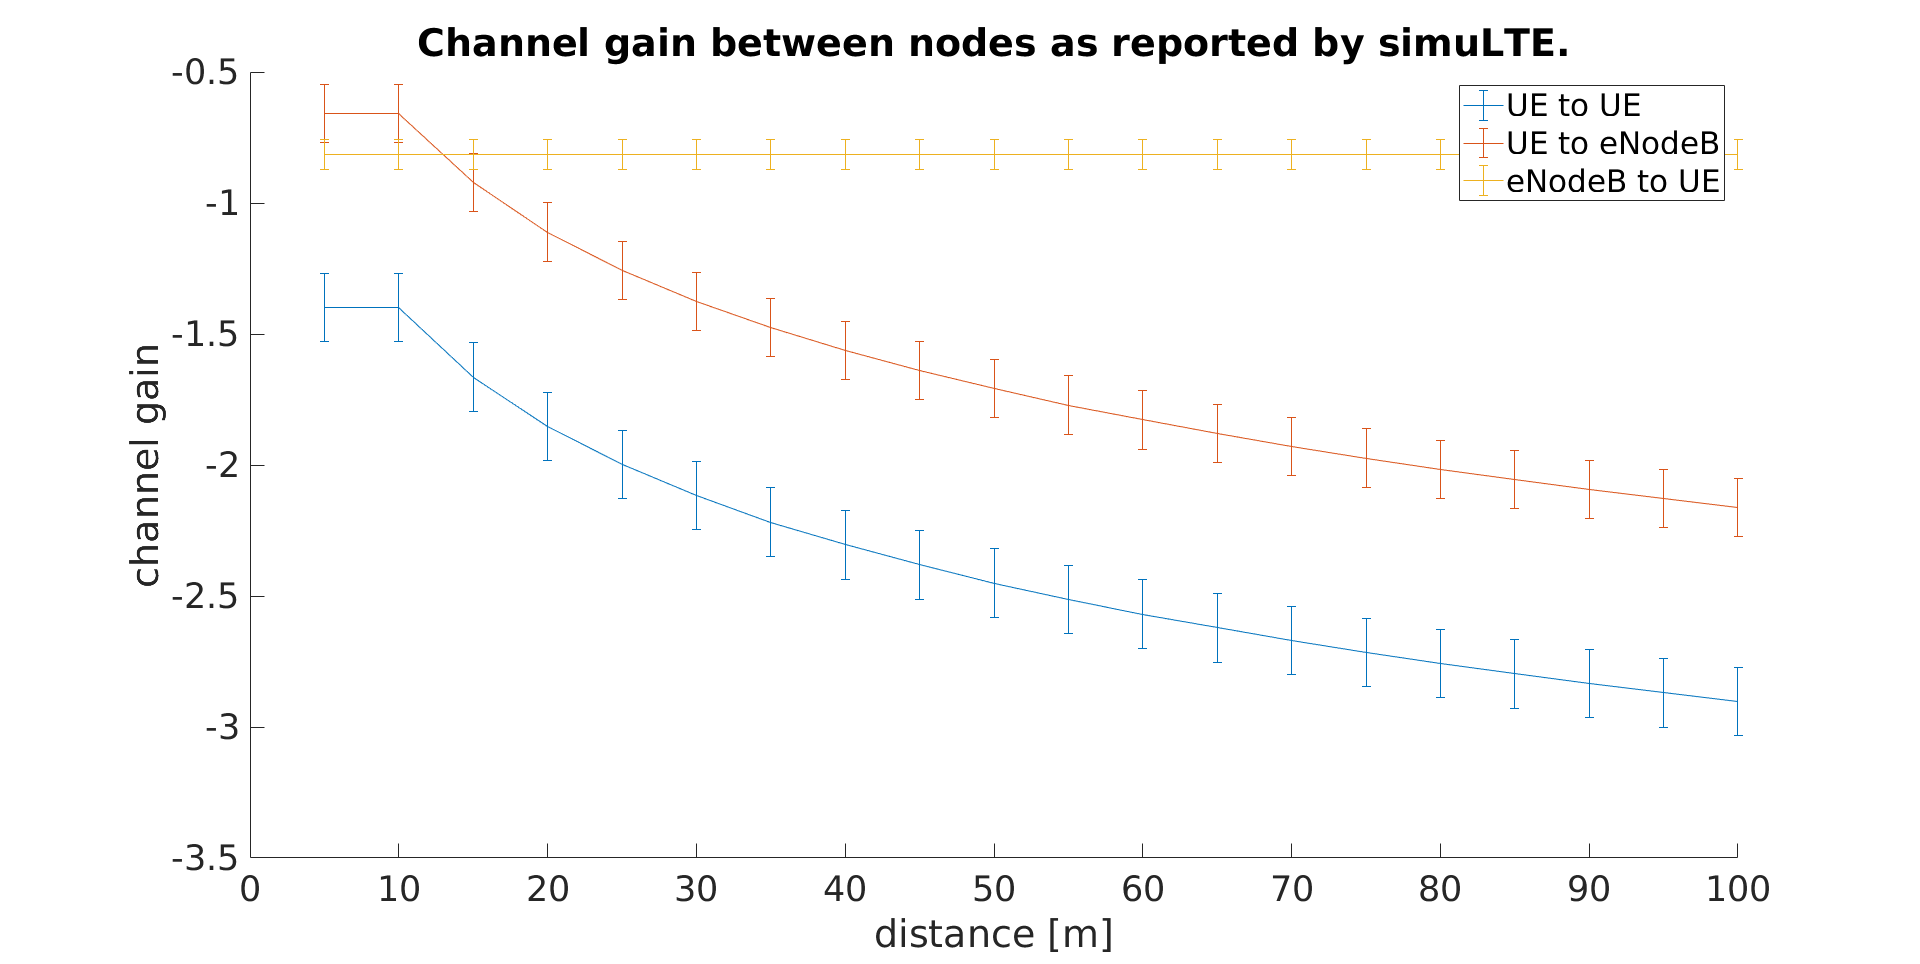
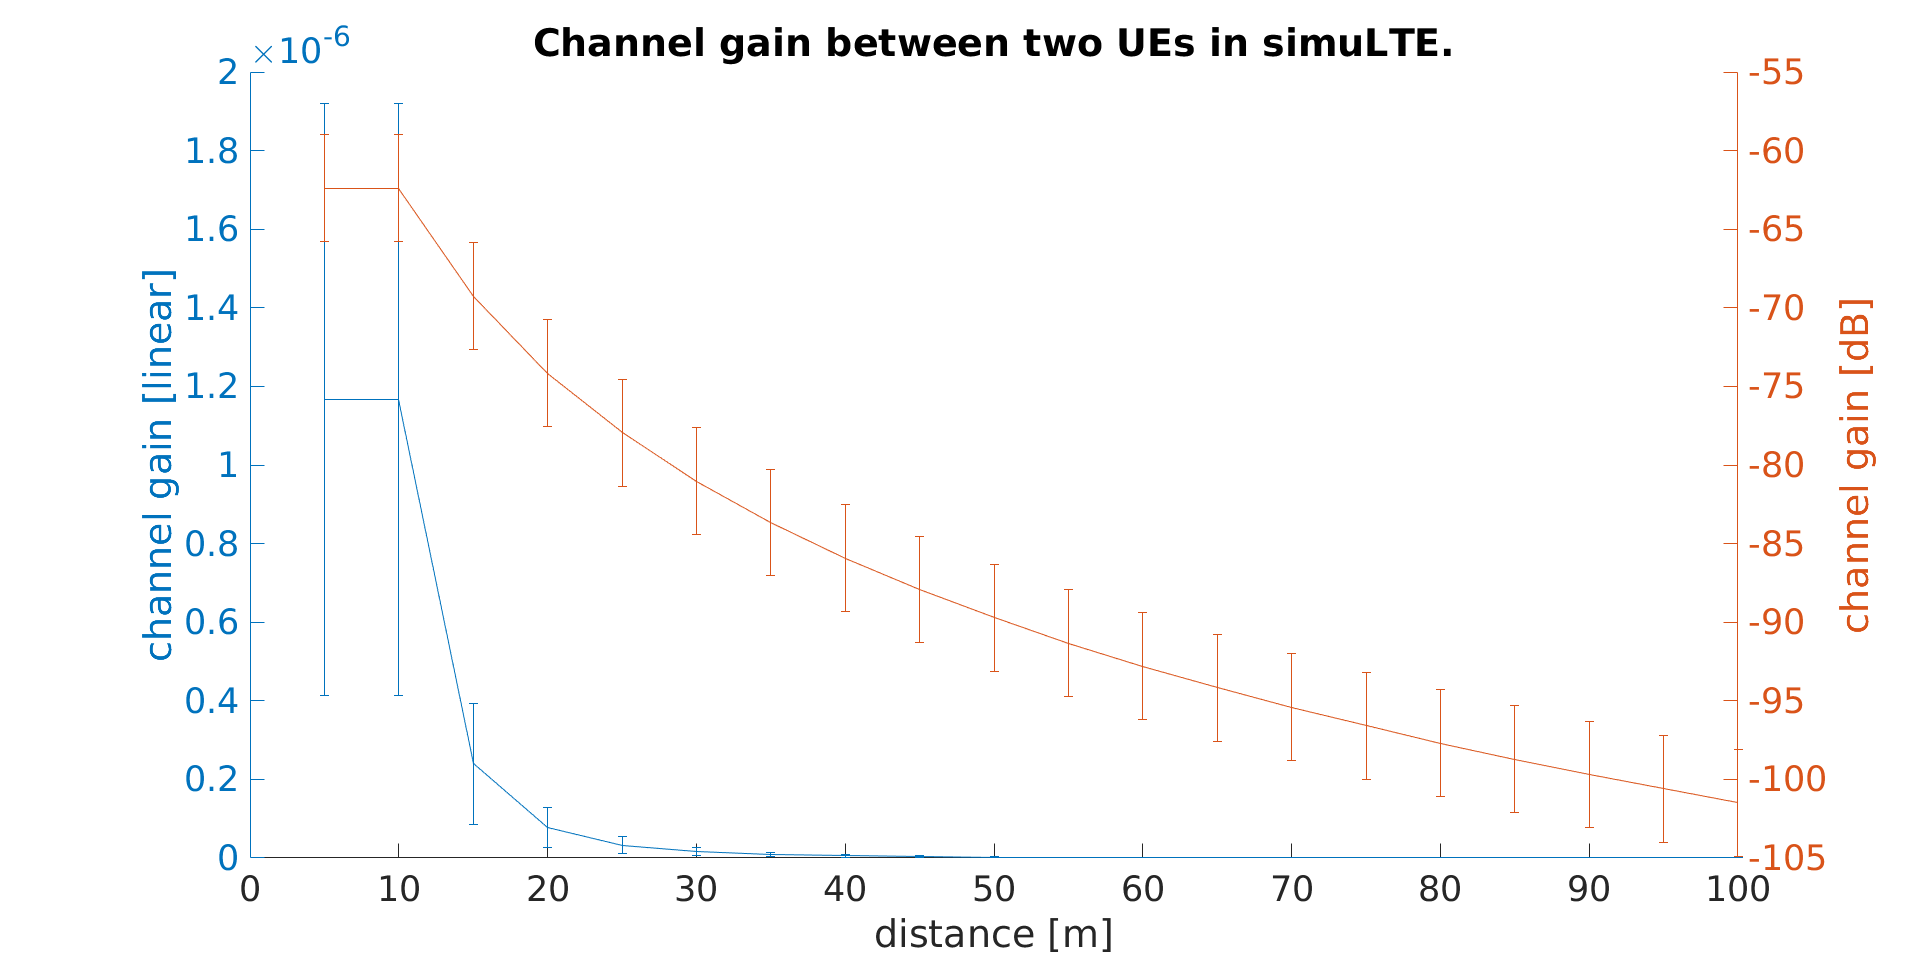
stackelberg leader utility plotted

diff --git a/frequency-reuse/evaluation/plots/stackelberg_utility_plot.m b/frequency-reuse/evaluation/plots/stackelberg_utility_plot.m
@@ -1,79 +1,74 @@
 utilVec = [];
 p_tx = 398;
-g_ke = 8e-7;
-g_ki = 8e-7;
-g_ie = 8e-7;
-g_ii = 8e-7;
-N = -174;
-beta = 5;
+g_ke = 1e-8;
+g_ki = 1e-8;
+g_ie = 1e-8;
+g_ii = 1e-8;
+N = 4e-18;
+beta = 2;
 
-% % Plot to price.
-% range = -1000:1000;
-% for price = range(1):range(end)
-%     utilVec(end+1) = stackelberg_utility_leader(p_tx, g_ke, g_ki, g_ie, g_ii, N, beta, price);
-% end
-% 
-% figure;
-% hold on;
-% plot(range, utilVec);
-% xlabel('\alpha');
-% ylabel('leader utility');
-% set(gca,'FontSize', 26);
-% hold off;
-% 
-% % Plot to g_ke
-% g_keVec = 8e-7:1e-3:1;
-% price = 100;
-% utilVec2 = [];
-% for i=1:size(g_keVec, 2)
-%     g = g_keVec(i);
-%     utilVec2(end+1) = stackelberg_utility_leader(p_tx, g, g_ki, g_ie, g_ii, N, beta, price);
-% end
-% 
-% figure;
-% hold on;
-% plot(g_keVec, utilVec2);
-% xlabel('g_ke');
-% ylabel('leader utility');
-% set(gca,'FontSize', 26);
-% set(findall(gca, 'Type', 'Line'),'LineWidth', 2);
-% hold off;
+% Plot to price.
+range = -10000:1:10000;
+for price = range(1):range(end)
+    utilVec(end+1) = stackelberg_utility_leader(p_tx, g_ke, g_ki, g_ie, g_ii, N, beta, price);
+end
 
-% Plot to g_ie
-% price = 100;
-% g_ieVec = 8e-8:1e-7:8e-6;
-% utilVec3 = [];
-% 
-% for i=1:size(g_ieVec, 2)
-%     g = g_ieVec(i);
-%     utilVec3(end+1) = stackelberg_utility_leader(p_tx, g_ke, g_ki, g_ie, g, N, beta, price);
-% end
-% 
-% figure;
-% hold on;
-% plot(g_ieVec, utilVec3);
-% xlabel('g_{ie}');
-% ylabel('leader utility');
-% set(gca,'FontSize', 26);
-% set(findall(gca, 'Type', 'Line'),'LineWidth', 2);
-% hold off;
+% Plot to channel gains.
+gRange = 1e-10:1e-7:1e-1;
+price = 10000;
+utilVec_gke = [];
+utilVec_gki = [];
+utilVec_gie = [];
+utilVec_gii = [];
+for i=1:size(gRange, 2)
+    g = gRange(i);
+    utilVec_gke(end+1) = stackelberg_utility_leader(p_tx, g, g_ki, g_ie, g_ii, N, beta, price);
+    utilVec_gki(end+1) = stackelberg_utility_leader(p_tx, g_ke, g, g_ie, g_ii, N, beta, price);
+    utilVec_gie(end+1) = stackelberg_utility_leader(p_tx, g_ke, g_ki, g, g_ii, N, beta, price);
+    utilVec_gii(end+1) = stackelberg_utility_leader(p_tx, g_ke, g_ki, g_ie, g, N, beta, price);
+end
 
-% % Plot to g_ki
-% price = 100;
-% g_ii = 8e-7;
-% g_kiVec = 8e-8:1e-7:8e-6;
-% utilVec4 = [];
-% 
-% for i=1:size(g_kiVec, 2)
-%     g = g_kiVec(i);
-%     utilVec4(end+1) = stackelberg_utility_leader(p_tx, g_ke, g, g_ie, g_ii, N, beta, price);
-% end
-% 
-% figure;
-% hold on;
-% plot(g_kiVec, utilVec4);
-% xlabel('g_{ii}');
-% ylabel('leader utility');
-% set(gca,'FontSize', 26);
-% set(findall(gca, 'Type', 'Line'),'LineWidth', 2);
-% hold off;
+figure;
+hold on;
+plot(range, utilVec);
+xlabel('\alpha_k');
+ylabel('leader utility');
+set(gca,'FontSize', 26);
+set(findall(gca, 'Type', 'Line'),'LineWidth', 2);
+hold off;
+
+figure;
+hold on;
+plot(gRange, utilVec_gke);
+xlabel('g_{ke}');
+ylabel('leader utility');
+set(gca,'FontSize', 48);
+set(findall(gca, 'Type', 'Line'),'LineWidth', 2);
+hold off;
+
+figure;
+hold on;
+plot(gRange, utilVec_gki);
+xlabel('g_{ki}');
+ylabel('leader utility');
+set(gca,'FontSize', 48);
+set(findall(gca, 'Type', 'Line'),'LineWidth', 2);
+hold off;
+
+figure;
+hold on;
+plot(gRange, utilVec_gie);
+xlabel('g_{ie}');
+ylabel('leader utility');
+set(gca,'FontSize', 48);
+set(findall(gca, 'Type', 'Line'),'LineWidth', 2);
+hold off;
+
+figure;
+hold on;
+plot(gRange(10:end), utilVec_gii(10:end));
+xlabel('g_{ii}');
+ylabel('leader utility');
+set(gca,'FontSize', 48);
+set(findall(gca, 'Type', 'Line'),'LineWidth', 2);
+hold off;

diff --git a/frequency-reuse/evaluation/plots/channel_gain_simulte.m b/frequency-reuse/evaluation/plots/channel_gain_simulte.m
@@ -825,6 +825,17 @@ for i = 1:numReps:size(gainD2DVec, 1)
     gainD2DPosVec(end + 1) = ci(3);
 end
 
+gainD2DMeandBVec = [];
+gainD2DNegdBVec = [];
+gainD2DPosdBVec = [];
+for i = 1:numReps:size(gainD2DVec, 1)
+    j = i+(numReps-1);
+    ci = getCI(10 * log10(gainD2DVec(i:j)), 0.95);
+    gainD2DMeandBVec(end + 1) = mean(10 * log10(gainD2DVec(i:j)));
+    gainD2DNegdBVec(end + 1) = ci(3);
+    gainD2DPosdBVec(end + 1) = ci(3);
+end
+
 % Get confidence intervals cellular.
 gainCellMeanVec = [];
 gainCellNegVec = [];
@@ -865,16 +876,21 @@ distanceVec = 5:5:100;
 
 figure;
 hold on;
+yyaxis left;
+ylabel('channel gain [linear]');
 errorbar(distanceVec, gainD2DMeanVec, gainD2DNegVec, gainD2DPosVec);
+
+yyaxis right;
+ylabel('channel gain [dB]');
+errorbar(distanceVec, gainD2DMeandBVec, gainD2DNegdBVec, gainD2DPosdBVec);
 %errorbar(distanceVec, gainCellMeanVec, gainCellNegVec, gainCellPosVec);
 %errorbar(distanceVec, gainCellEnbMeanVec, gainCellEnbNegVec, gainCellEnbPosVec);
 %errorbar(distanceVec, gainEnbCellMeanVec, gainEnbCellNegVec, gainEnbCellPosVec);
 
 xlabel('distance [m]');
-ylabel('channel gain');
-title('Channel gain between nodes as reported by simuLTE.');
+
+title('Channel gain between two UEs in simuLTE.');
 %legend({'D2D pair', 'Cellular pair', 'UE to eNodeB'});
-legend({'UE to UE'});
 set(gca,'FontSize', 26);
 
 hold off;

diff --git a/frequency-reuse/evaluation/plots/stackelberg_utility_leader.m b/frequency-reuse/evaluation/plots/stackelberg_utility_leader.m
@@ -1,7 +1,7 @@
 function util = stackelberg_utility_leader(p_tx, g_ke, g_ki, g_ie, g_ii, N, beta, price)    
-	varA = p_tx * g_ke;	
-	varB = 1 / log10(2);	
-	varC = -g_ie * ((p_tx * g_ki + N) / g_ii) + N;	
+	varA = (p_tx * g_ke);	
+	varB = (1 / log10(2));	
+	varC = (-g_ie * ((p_tx * g_ki + N) / g_ii) + N);	
 	util = log2(1 + ((varA * price) / (varC * price + varB))) + (varC - N) * beta * price + varB * beta;
 end
 
